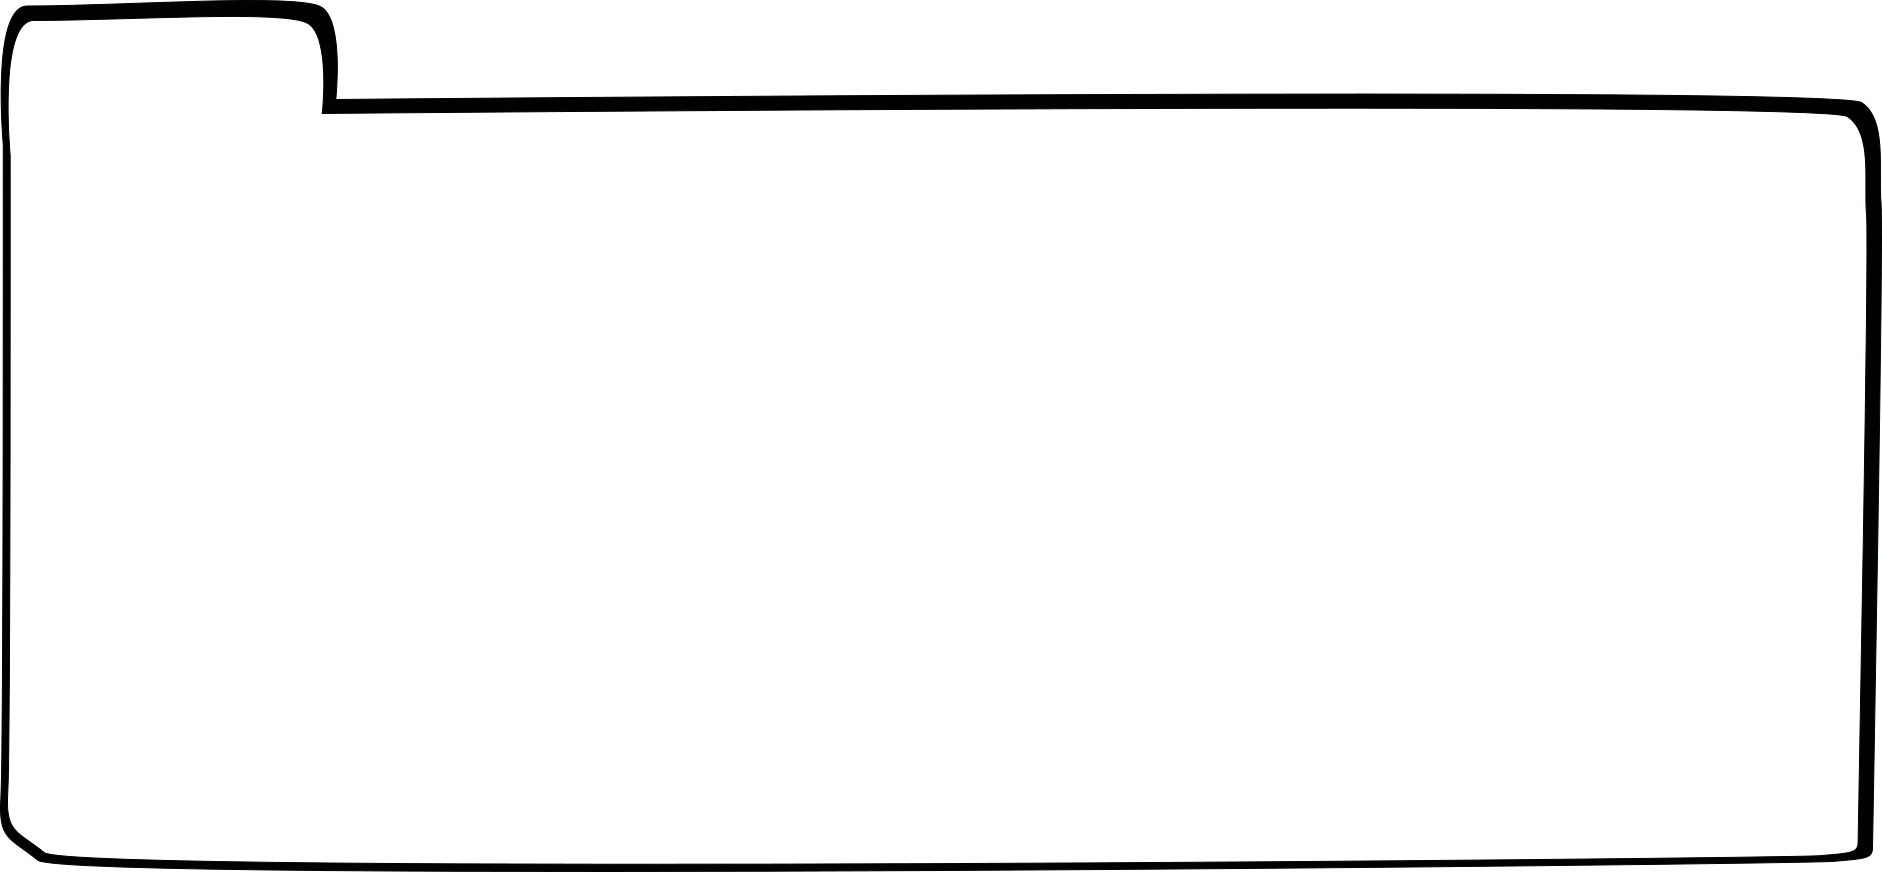
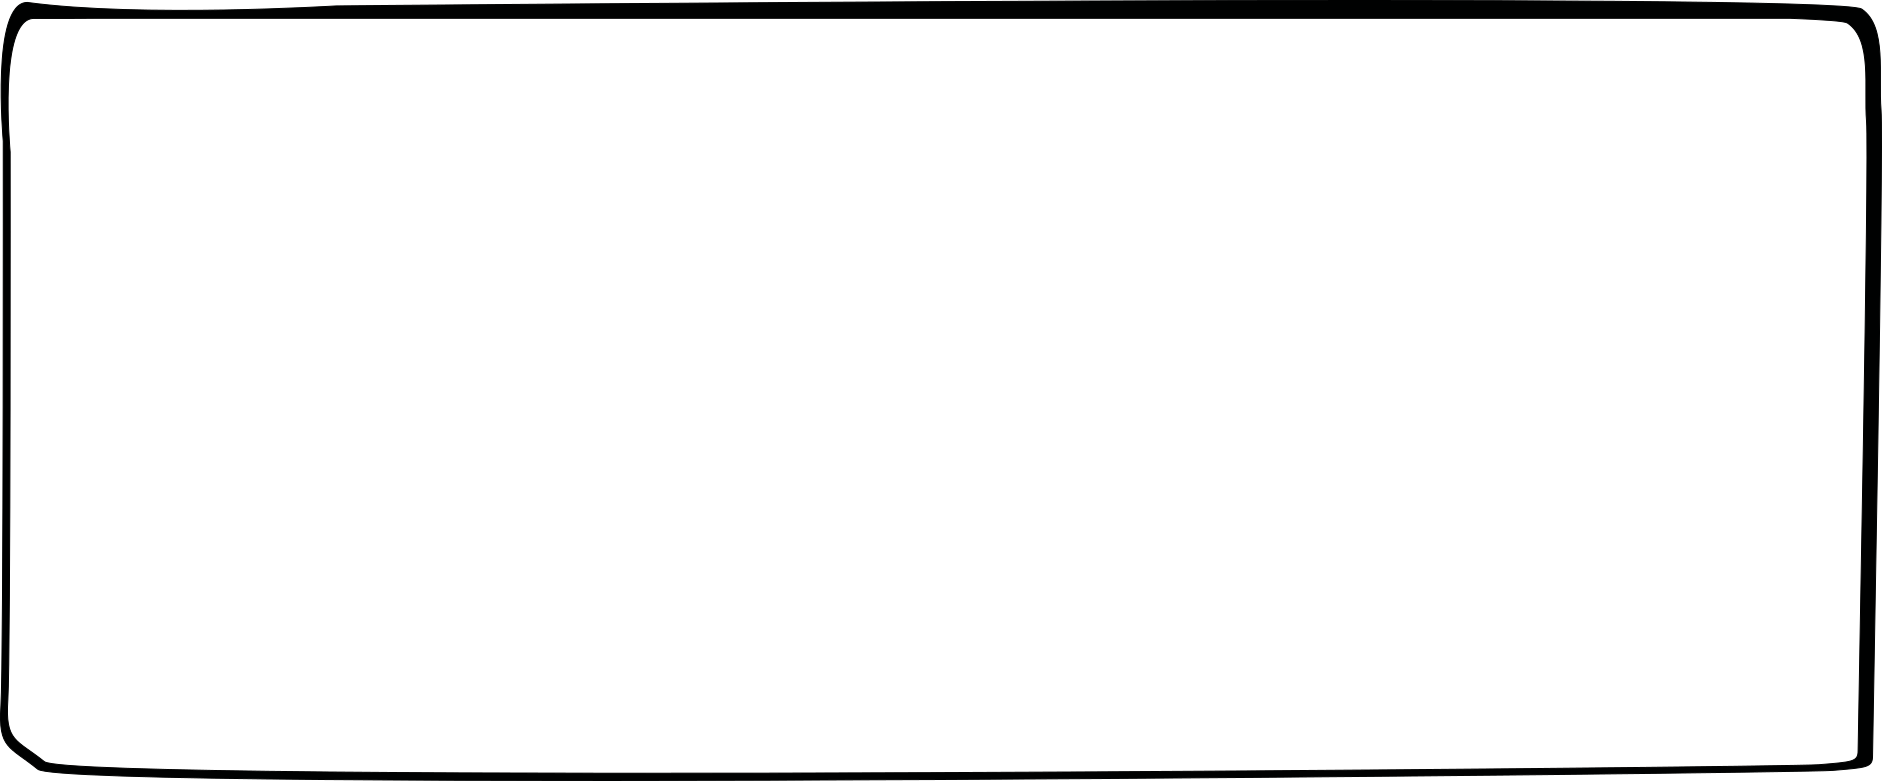
Fixes settings view graphics and a few bugs

diff --git a/src/components/graphics.js b/src/components/graphics.js
@@ -5,11 +5,14 @@ var graphics = Map({
     image: require('../../assets/default-icon.png')}),
 
   /* backgrounds */
+  'tausta_perus': Map({
+    image: require('../../assets/graphics/backgrounds/tausta_perus.png'),
+    ratio: 1.7777}),
   'tausta_perus2': Map({
     image: require('../../assets/graphics/backgrounds/tausta_perus2.png'),
     ratio: 1.7777}),
-  'tausta_perus': Map({
-    image: require('../../assets/graphics/backgrounds/tausta_perus.png'),
+  'tausta_perus3': Map({
+    image: require('../../assets/graphics/backgrounds/tausta_perus3.png'),
     ratio: 1.7777}),
   'kehys_iso': Map({
     image: require('../../assets/graphics/backgrounds/kehys_iso.png'),
@@ -20,12 +23,15 @@ var graphics = Map({
   'kehys_pieni': Map({
     image: require('../../assets/graphics/backgrounds/kehys_pieni.png'),
     ratio: 0.7970}),
+  'kehys_palkki': Map({
+    image: require('../../assets/graphics/backgrounds/kehys_palkki.png'),
+    ratio: 4.207}),
   'nelio': Map({
     image: require('../../assets/graphics/backgrounds/nelio.png'),
     ratio: 1.2484}),
   'tausta_asetukset': Map({
     image: require('../../assets/graphics/backgrounds/tausta_asetukset.png'),
-    ratio: 2.1582}),
+    ratio: 2.409}),
   'tausta_hemmolla': Map({
     image: require('../../assets/graphics/backgrounds/tausta_hemmolla.png'),
     ratio: 1.7777}),
@@ -99,6 +105,24 @@ var graphics = Map({
   'nappula_uusikuva': Map({
     image: require('../../assets/graphics/buttons/nappula_uusikuva.png'),
     ratio: 2.6111}),
+  'peukku_alas_0': Map({
+    image: require('../../assets/graphics/buttons/peukku_alas_0.png'),
+    ratio: 1}),
+  'peukku_alas_1': Map({
+    image: require('../../assets/graphics/buttons/peukku_alas_1.png'),
+    ratio: 1}),
+  'peukku_keski_0': Map({
+    image: require('../../assets/graphics/buttons/peukku_keski_0.png'),
+    ratio: 1}),
+  'peukku_keski_1': Map({
+    image: require('../../assets/graphics/buttons/peukku_keski_1.png'),
+    ratio: 1}),
+  'peukku_ylos_0': Map({
+    image: require('../../assets/graphics/buttons/peukku_ylos_0.png'),
+    ratio: 1}),
+  'peukku_ylos_1': Map({
+    image: require('../../assets/graphics/buttons/peukku_ylos_1.png'),
+    ratio: 1}),
 
   'hemmo_iso': Map({
     image: require('../../assets/graphics/others/hemmo_iso.png'),
@@ -120,10 +144,16 @@ var graphics = Map({
     ratio: 3.5490}),
   'valilehti_tyhja': Map({
     image: require('../../assets/graphics/others/valilehti_tyhja.png'),
-    ratio: 3.5490}),
+    ratio: 2.185}),
   'valittu': Map({
     image: require('../../assets/graphics/others/valittu.png'),
-    ratio: 1.0377})
+    ratio: 1.0377}),
+  'ikoni_kyna': Map({
+    image: require('../../assets/graphics/others/ikoni_kyna.png'),
+    ratio: 1}),
+  'ikoni_tallenna': Map({
+    image: require('../../assets/graphics/others/ikoni_tallenna.png'),
+    ratio: 1})
 });
 
 module.exports = graphics;

diff --git a/src/modules/settings/SettingsView.js b/src/modules/settings/SettingsView.js
@@ -125,7 +125,7 @@ const SettingsView = React.createClass({
   },
 
   handleClick(user, index) {
-    if (user === '+ Lisää ') {
+    if (user === '+ Lisää lapsi') {
       this.addTab();
     }
     else {
@@ -154,8 +154,8 @@ const SettingsView = React.createClass({
         <Image
           source={getImage('valilehti_tyhja')}
           onPress={this.handleClick.bind(this, user, index)}
-          style={[styles.tab, getSize('valilehti_tyhja', 0.1)]}>
-          <Text ellipsizeMode='tail' numberOfLines={1} style={styles.tabText}>
+          style={[styles.tab, getSize('valilehti_tyhja', 0.12)]}>
+          <Text ellipsizeMode='tail' numberOfLines={1} style={[styles.tabText, styles.font]}>
             {user}
           </Text>
         </Image>
@@ -173,13 +173,16 @@ const SettingsView = React.createClass({
 
           <View style={styles.titleBarSection}>
             <Icon size={30} name={'cog'}/>
-            <Text> Asetukset </Text>
+            <Text style={styles.font}> Asetukset </Text>
           </View>
         </View>
-        <Image source={getImage('tausta_asetukset')} style={styles.form}>
+        <ScrollView horizontal={true} showsHorizontalScrollIndicator={false} style={styles.tabBar}>
+          {tabs}
+        </ScrollView>
+        <Image source={getImage('tausta_asetukset')} style={[styles.form, getSize('tausta_asetukset', 0.66)]}>
           <View style={styles.leftColumn}>
             <View style={styles.inputField}>
-              <Text style={styles.label}>
+              <Text style={[styles.label, styles.font]}>
                 Nimi
               </Text>
               <View style={styles.textInputView}>
@@ -191,14 +194,15 @@ const SettingsView = React.createClass({
               </View>
             </View>
             <View style={styles.imagefield}>
+            <Image source={getImage('nelio')} style={getSize('nelio', 0.35)}>
              <Image
                style={styles.icon}
                source={{uri: this.props.currentUser.get('image')}}/>
-
+            </Image>
              <TouchableOpacity onPress={this.openImageGallery}>
                <Image
                  source={getImage('nappula_uusikuva')}
-                 style={[{marginLeft: 10}, getSize('nappula_uusikuva', 0.15)]}/>
+                 style={[{marginLeft: 20}, getSize('nappula_uusikuva', 0.12)]}/>
              </TouchableOpacity>
 
             </View>
@@ -224,9 +228,6 @@ const SettingsView = React.createClass({
             </View>
           </View>
         </Image>
-        <ScrollView horizontal={true} showsHorizontalScrollIndicator={false} style={styles.tabBar}>
-          {tabs}
-        </ScrollView>
       </Image>
     );
   }

diff --git a/src/modules/settings/styles.js b/src/modules/settings/styles.js
@@ -8,9 +8,7 @@ const styles = StyleSheet.create({
     flex: 1,
     width: null,
     height: null,
-    flexDirection: 'column',
-    alignItems: 'center',
-    backgroundColor: 'white'
+    alignItems: 'center'
   },
   titleBar: {
     flexDirection: 'row'
@@ -22,31 +20,29 @@ const styles = StyleSheet.create({
     justifyContent: 'center'
   },
   tabBar: {
-    flexDirection: 'row',
     position: 'absolute',
-    top: 40,
-    left: 10,
-    right: 10
+    top: 55,
+    left: 20,
+    right: 15
+  },
+  font: {
+    fontFamily: 'Gill Sans'
   },
   tab: {
-    marginHorizontal: 2,
     alignItems: 'center',
     justifyContent: 'center'
   },
   tabText: {
-    width: 90,
+    width: null,
+    margin: 10,
     fontSize: 15
   },
   form: {
-    height: null,
-    width: null,
-    flex: 5,
-    flexDirection: 'row',
     position: 'absolute',
-    top: 40,
-    bottom: 40,
-    right: 10,
-    left: 10
+    top: 90,
+    left: 20,
+    right: 20,
+    flexDirection: 'row'
   },
   leftColumn: {
     flex: 5,
@@ -58,7 +54,7 @@ const styles = StyleSheet.create({
   },
   inputField: {
     flex: 1,
-    paddingTop: 50,
+    paddingTop: 20,
     paddingHorizontal: 10,
     flexDirection: 'row',
     alignItems: 'center'
@@ -82,7 +78,7 @@ const styles = StyleSheet.create({
         borderWidth: 1,
         borderRadius: 10,
         borderColor: 'gray',
-        backgroundColor: 'rgba(209, 209, 209, 0.59)'
+        backgroundColor: 'rgba(209, 209, 209, 0.29)'
       },
       android: {
         fontSize: 20
@@ -96,8 +92,8 @@ const styles = StyleSheet.create({
     alignItems: 'center'
   },
   icon: {
-    height: 120,
-    width: 120
+    flex: 1,
+    margin: 10
   },
   buttonfield: {
     flex: 1,

diff --git a/src/modules/AppView.js b/src/modules/AppView.js
@@ -87,19 +87,34 @@ const AppView = React.createClass({
     }
 
     if (this.props.currentUser.get('id') !== null) {
+
+      var phase;
+      var showSettingsCircle = true;
+
       if (this.props.pages.get(this.props.currentPage - 1).get('key') === 'Emotions') {
-        var phase = 'Emotions';
+        phase = 'Emotions';
+      }
+      else if (this.props.pages.get(this.props.currentPage).get('key') === 'Settings') {
+        showSettingsCircle = false;
+      }
+      if (this.props.currentPage === 1) {
+        phase = 'Do nothing';
       }
       else {
         phase = 'Other';
       }
 
-      var currentUser = (
-        <SettingsButton
-          resetRoute={this.resetRoute}
-          phase={phase}
-          currentUser={this.props.currentUser}
-          end={this.end}/>);
+      if (showSettingsCircle === true) {
+        var currentUser = (
+          <SettingsButton
+            resetRoute={this.resetRoute}
+            phase={phase}
+            currentUser={this.props.currentUser}
+            end={this.end}/>);
+      }
+      else {
+        currentUser = null;
+      }
     }
     else {
       currentUser = null;

diff --git a/src/components/SettingsButton.js b/src/components/SettingsButton.js
@@ -37,12 +37,14 @@ const SettingsButton = React.createClass({
   },
 
   saveAndReset() {
-    save(this.props.phase,
-      'skipped',
-      null,
-      'Ohitettu',
-      this.props.currentUser.get('activityIndex'),
-      this.props.currentUser.get('answers'));
+    if (this.props.phase !== 'Do nothing') {
+      save(this.props.phase,
+        'skipped',
+        null,
+        'Ohitettu',
+        this.props.currentUser.get('activityIndex'),
+        this.props.currentUser.get('answers'));
+    }
     this.props.resetRoute();
   },
 

diff --git a/src/modules/home/HomeView.js b/src/modules/home/HomeView.js
@@ -195,7 +195,7 @@ const HomeView = React.createClass({
     }
 
     return (
-      <Image source={getImage('tausta_perus2')} style={styles.container}>
+      <Image source={getImage('tausta_perus3')} style={styles.container}>
         <View style={styles.leftcolumn}>
           <Hemmo image={'hemmo_keski'} size={0.8} restartAudioAndText={this.restartAudioAndText}/>
           <View style={styles.settingsButton}>
